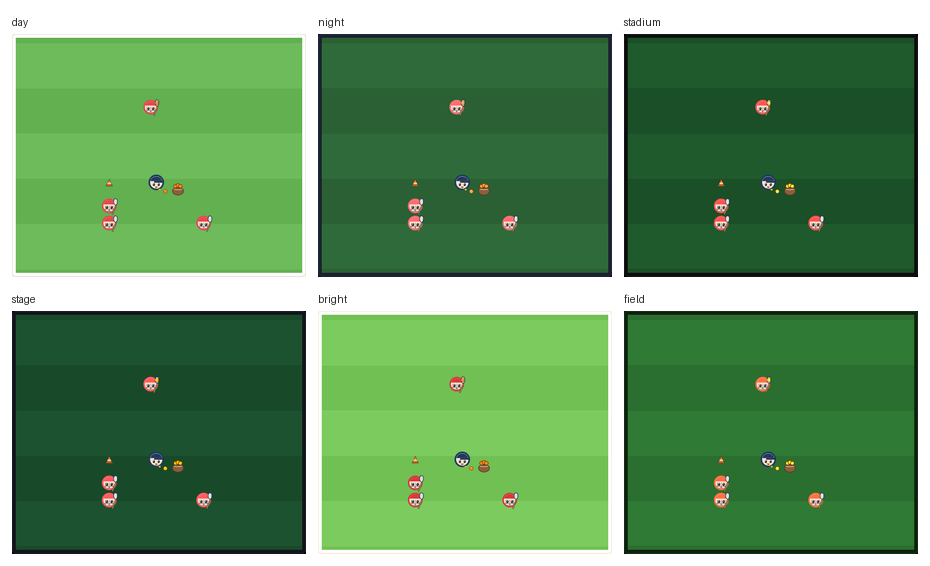
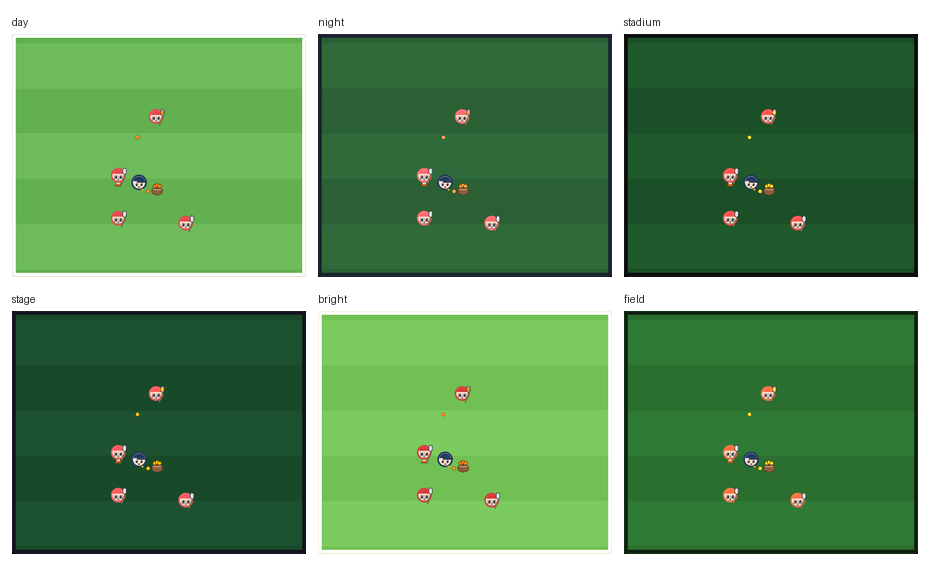
fix: put the coach right next to the cone in Ground ball mania
At the new icon scale, 5 yards between the cone and the coach looked like
the coach was standing off on their own. The coach is now 2.3 yards from
the cone (about two icon widths) with the ball bag beside them, so they
are right next to it. Balls still roll about 9 yards up the field, now
aimed straight at the goal end from the coach, and players still swing
around the outside of the coach and bag to rejoin the line. Paths were
regenerated with every check passing (no conflicts, nobody stops, fastest
6.1 yards a second, slowest 4.2). Players start 2.4 seconds apart and six
balls take about 21 seconds. The view is centred on the narrower action.

Also fixes two stale lines in AGENTS.md (ball icon is 0.5 yards, and icon
sizes are no longer an open item). Screenshots remade.

AIA PAI SeCeNc Hin R Claude Code Web Sonnet 5.5 Medium v1.0

Vibe-Coder: Vibe-Coder 1.z3r0 <243014891+vibecoder-1z3r0@users.noreply.github.com>

diff --git a/src/js/drills.js b/src/js/drills.js
@@ -10,26 +10,26 @@ export const DRILLS = [
   {
     id: "ground-ball-mania",
     title: "Ground ball mania",
-    view: { x: 21.5, y: 19.4, w: 28, h: 26 },
+    view: { x: 20.5, y: 19.4, w: 28, h: 26 },
     goal: false,
     midfieldLabel: false,
     summary: "The coach stands beside the cone and rolls balls out one at a time. Each player runs out from the line, scoops one, rolls it back to the coach and rejoins the line.",
-    duration: 23.2,
+    duration: 21.2,
     actors: [
-      { id: "coach", kind: "coach", team: "none", keys: [k(0, 35.2, 35.4)] },
-      { id: "bag", kind: "ballbag", team: "none", keys: [k(0, 37.6, 36.2)] },
+      { id: "coach", kind: "coach", team: "none", keys: [k(0, 32.3, 35.4)] },
+      { id: "bag", kind: "ballbag", team: "none", keys: [k(0, 34.3, 36.2)] },
       { id: "cone", kind: "cone", team: "none", color: "orange", keys: [k(0, 30, 35.4)] },
-      { id: "p1", kind: "player", team: "a", keys: [k(0, 30, 38), k(1.0, 30, 38), k(1.8, 30, 33.5), k(3.4, 33.0, 26.7), k(4.8, 40.5, 30.7), k(5.7, 40.5, 35.9), k(6.39, 40.5, 39.9), k(8.19, 30, 39.9), k(9.8, 30, 39.9), k(10.5, 30, 38), k(12.2, 30, 38), k(13.0, 30, 33.5), k(14.6, 33.0, 26.7), k(16.0, 40.5, 30.7), k(16.9, 40.5, 35.9), k(17.92, 40.5, 41.8), k(19.72, 30, 41.8)] },
-      { id: "p2", kind: "player", team: "a", keys: [k(0, 30, 39.9), k(1.4, 30, 39.9), k(2.1, 30, 38), k(3.8, 30, 38), k(4.6, 30, 33.5), k(6.2, 33.6, 26.5), k(7.6, 40.5, 30.5), k(8.5, 40.5, 35.9), k(9.19, 40.5, 39.9), k(10.99, 30, 39.9), k(12.6, 30, 39.9), k(13.3, 30, 38), k(15.0, 30, 38), k(15.8, 30, 33.5), k(17.4, 33.6, 26.5), k(18.8, 40.5, 30.5), k(19.7, 40.5, 35.9), k(21.04, 40.5, 43.7), k(22.84, 30, 43.7)] },
-      { id: "p3", kind: "player", team: "a", keys: [k(0, 30, 41.8), k(1.4, 30, 41.8), k(2.1, 30, 39.9), k(4.2, 30, 39.9), k(4.9, 30, 38), k(6.6, 30, 38), k(7.4, 30, 33.5), k(9.0, 32.4, 26.8), k(10.4, 40.5, 30.8), k(11.3, 40.5, 35.9), k(11.99, 40.5, 39.9), k(13.79, 30, 39.9), k(15.4, 30, 39.9), k(16.1, 30, 38)] },
-      { id: "p4", kind: "player", team: "a", keys: [k(0, 30, 43.7), k(1.4, 30, 43.7), k(2.1, 30, 41.8), k(4.2, 30, 41.8), k(4.9, 30, 39.9), k(7.0, 30, 39.9), k(7.7, 30, 38), k(9.4, 30, 38), k(10.2, 30, 33.5), k(11.8, 33.3, 26.6), k(13.2, 40.5, 30.6), k(14.1, 40.5, 35.9), k(14.79, 40.5, 39.9), k(16.59, 30, 39.9)] },
-      { id: "ball", kind: "ball", team: "none", keys: [k(0, 36.2, 36.4), k(0.9, 36.2, 36.4), k(2.1, 33.67, 26.25), k(3.4, 33.67, 26.25), k(4.8, 41.17, 30.25), k(5.7, 41.17, 35.45), k(6.2, 36.2, 36.4), k(12.1, 36.2, 36.4), k(13.3, 33.67, 26.25), k(14.6, 33.67, 26.25), k(16.0, 41.17, 30.25), k(16.9, 41.17, 35.45), k(17.4, 36.2, 36.4)] },
-      { id: "ball2", kind: "ball", team: "none", keys: [k(0, 36.2, 36.4), k(3.7, 36.2, 36.4), k(4.9, 34.27, 26.05), k(6.2, 34.27, 26.05), k(7.6, 41.17, 30.05), k(8.5, 41.17, 35.45), k(9.0, 36.2, 36.4), k(14.9, 36.2, 36.4), k(16.1, 34.27, 26.05), k(17.4, 34.27, 26.05), k(18.8, 41.17, 30.05), k(19.7, 41.17, 35.45), k(20.2, 36.2, 36.4)] },
-      { id: "ball3", kind: "ball", team: "none", keys: [k(0, 36.2, 36.4), k(6.5, 36.2, 36.4), k(7.7, 33.07, 26.35), k(9.0, 33.07, 26.35), k(10.4, 41.17, 30.35), k(11.3, 41.17, 35.45), k(11.8, 36.2, 36.4)] },
-      { id: "ball4", kind: "ball", team: "none", keys: [k(0, 36.2, 36.4), k(9.3, 36.2, 36.4), k(10.5, 33.97, 26.15), k(11.8, 33.97, 26.15), k(13.2, 41.17, 30.15), k(14.1, 41.17, 35.45), k(14.6, 36.2, 36.4)] },
+      { id: "p1", kind: "player", team: "a", keys: [k(0, 30, 38), k(1.0, 30, 38), k(1.8, 30, 33.5), k(3.4, 31.0, 26.5), k(4.8, 37.5, 30.5), k(5.7, 37.5, 35.9), k(6.39, 37.5, 39.9), k(8.19, 30, 39.9), k(8.6, 30, 39.9), k(9.3, 30, 38), k(10.6, 30, 38), k(11.4, 30, 33.5), k(13.0, 31.0, 26.5), k(14.4, 37.5, 30.5), k(15.3, 37.5, 35.9), k(16.32, 37.5, 41.8), k(18.12, 30, 41.8)] },
+      { id: "p2", kind: "player", team: "a", keys: [k(0, 30, 39.9), k(1.4, 30, 39.9), k(2.1, 30, 38), k(3.4, 30, 38), k(4.2, 30, 33.5), k(5.8, 31.7, 26.4), k(7.2, 37.5, 30.4), k(8.1, 37.5, 35.9), k(8.79, 37.5, 39.9), k(10.59, 30, 39.9), k(11.0, 30, 39.9), k(11.7, 30, 38), k(13.0, 30, 38), k(13.8, 30, 33.5), k(15.4, 31.7, 26.4), k(16.8, 37.5, 30.4), k(17.7, 37.5, 35.9), k(19.04, 37.5, 43.7), k(20.84, 30, 43.7)] },
+      { id: "p3", kind: "player", team: "a", keys: [k(0, 30, 41.8), k(1.4, 30, 41.8), k(2.1, 30, 39.9), k(3.8, 30, 39.9), k(4.5, 30, 38), k(5.8, 30, 38), k(6.6, 30, 33.5), k(8.2, 30.6, 26.6), k(9.6, 37.5, 30.6), k(10.5, 37.5, 35.9), k(11.19, 37.5, 39.9), k(12.99, 30, 39.9), k(13.4, 30, 39.9), k(14.1, 30, 38)] },
+      { id: "p4", kind: "player", team: "a", keys: [k(0, 30, 43.7), k(1.4, 30, 43.7), k(2.1, 30, 41.8), k(3.8, 30, 41.8), k(4.5, 30, 39.9), k(6.2, 30, 39.9), k(6.9, 30, 38), k(8.2, 30, 38), k(9.0, 30, 33.5), k(10.6, 31.4, 26.4), k(12.0, 37.5, 30.4), k(12.9, 37.5, 35.9), k(13.59, 37.5, 39.9), k(15.39, 30, 39.9)] },
+      { id: "ball", kind: "ball", team: "none", keys: [k(0, 33.3, 36.4), k(0.9, 33.3, 36.4), k(2.1, 31.68, 26.05), k(3.4, 31.68, 26.05), k(4.8, 38.17, 30.05), k(5.7, 38.17, 35.45), k(6.2, 33.3, 36.4), k(10.5, 33.3, 36.4), k(11.7, 31.68, 26.05), k(13.0, 31.68, 26.05), k(14.4, 38.17, 30.05), k(15.3, 38.17, 35.45), k(15.8, 33.3, 36.4)] },
+      { id: "ball2", kind: "ball", team: "none", keys: [k(0, 33.3, 36.4), k(3.3, 33.3, 36.4), k(4.5, 32.38, 25.95), k(5.8, 32.38, 25.95), k(7.2, 38.17, 29.95), k(8.1, 38.17, 35.45), k(8.6, 33.3, 36.4), k(12.9, 33.3, 36.4), k(14.1, 32.38, 25.95), k(15.4, 32.38, 25.95), k(16.8, 38.17, 29.95), k(17.7, 38.17, 35.45), k(18.2, 33.3, 36.4)] },
+      { id: "ball3", kind: "ball", team: "none", keys: [k(0, 33.3, 36.4), k(5.7, 33.3, 36.4), k(6.9, 31.28, 26.15), k(8.2, 31.28, 26.15), k(9.6, 38.17, 30.15), k(10.5, 38.17, 35.45), k(11.0, 33.3, 36.4)] },
+      { id: "ball4", kind: "ball", team: "none", keys: [k(0, 33.3, 36.4), k(8.1, 33.3, 36.4), k(9.3, 32.07, 25.95), k(10.6, 32.07, 25.95), k(12.0, 38.17, 29.95), k(12.9, 38.17, 35.45), k(13.4, 33.3, 36.4)] },
     ],
     captions: [
-      { t: 0, text: "Four players line up behind the cone. The coach stands right beside the cone with the balls." },
+      { t: 0, text: "Four players line up behind the cone. The coach stands right next to the cone with the balls." },
       { t: 0.6, text: "Coach rolls a ball up the field, about 9 yards out." },
       { t: 1.6, text: "The first player runs through the cone and attacks the ball." },
       { t: 3.4, text: "Scoop it on the move: get low, stick down, and don't stop." },
@@ -38,7 +38,7 @@ export const DRILLS = [
       { t: 5.6, text: "Roll it in when you are about level with the coach, still running." },
       { t: 6.8, text: "Keep going, down and around to the back of the line." },
       { t: 13, text: "Around again, everyone circling the same way. Field as many ground balls as you can." },
-      { t: 21.5, text: "Six ground balls in about 23 seconds. Beat that next round." },
+      { t: 19.5, text: "Six ground balls in about 21 seconds. Beat that next round." },
     ],
   },
   {

diff --git a/AGENTS.md b/AGENTS.md
@@ -64,7 +64,7 @@ Python is dev tooling only (build script, Playwright tests).
   in `JS_ORDER` in the build script.
 - **Field:** real lacrosse dimensions in one coordinate system (yards), so every drill is plain data
   and scales cleanly. The stripes are 5 yards each. Icons are drawn about twice real size (player 1.8
-  yards, ball 0.7; a real player is about 0.7 yards across) and each drill zooms in on its action with
+  yards, ball 0.5; a real player is about 0.7 yards across) and each drill zooms in on its action with
   `view: { x, y, w, h }`; `iconScale` makes a drill's actors bigger when it can only zoom a little. Space
   players and set paths from real distances, not from icon size.
 - **Drills are data:** actors (player, coach, goalie, ball, cones...) plus per-actor keyframe tracks
@@ -91,8 +91,7 @@ Borrowed from `the-quest-map-generator`:
 1. **Scaffold: done.** Build, lint, tests, CI, two demo drills, seven placeholder chibi icons, and a
    day/night theme switch. There is deliberately no `make serve`: the page is one static file, so open
    `dist/index.html` directly, and the tests load it as a `file://` URL. (An earlier attempt that
-   included a localhost URL was blocked by AI Guardian as `ssrf_blocked`.) Next: real art, more drills,
-   icon sizes (they are small next to the 60-yard field), more themes.
+   included a localhost URL was blocked by AI Guardian as `ssrf_blocked`.) Next: real art, more drills.
 2. **Session recorder: deferred by the user.** It would come from `the-quest-map-generator`
    (`scripts/session_timing.py`, `scripts/session_log_header.md`, the pre-commit hook in
    `scripts/hooks/`, `SESSION_LOG.md`, `make session-log`). The copy command was blocked by AI Guardian
